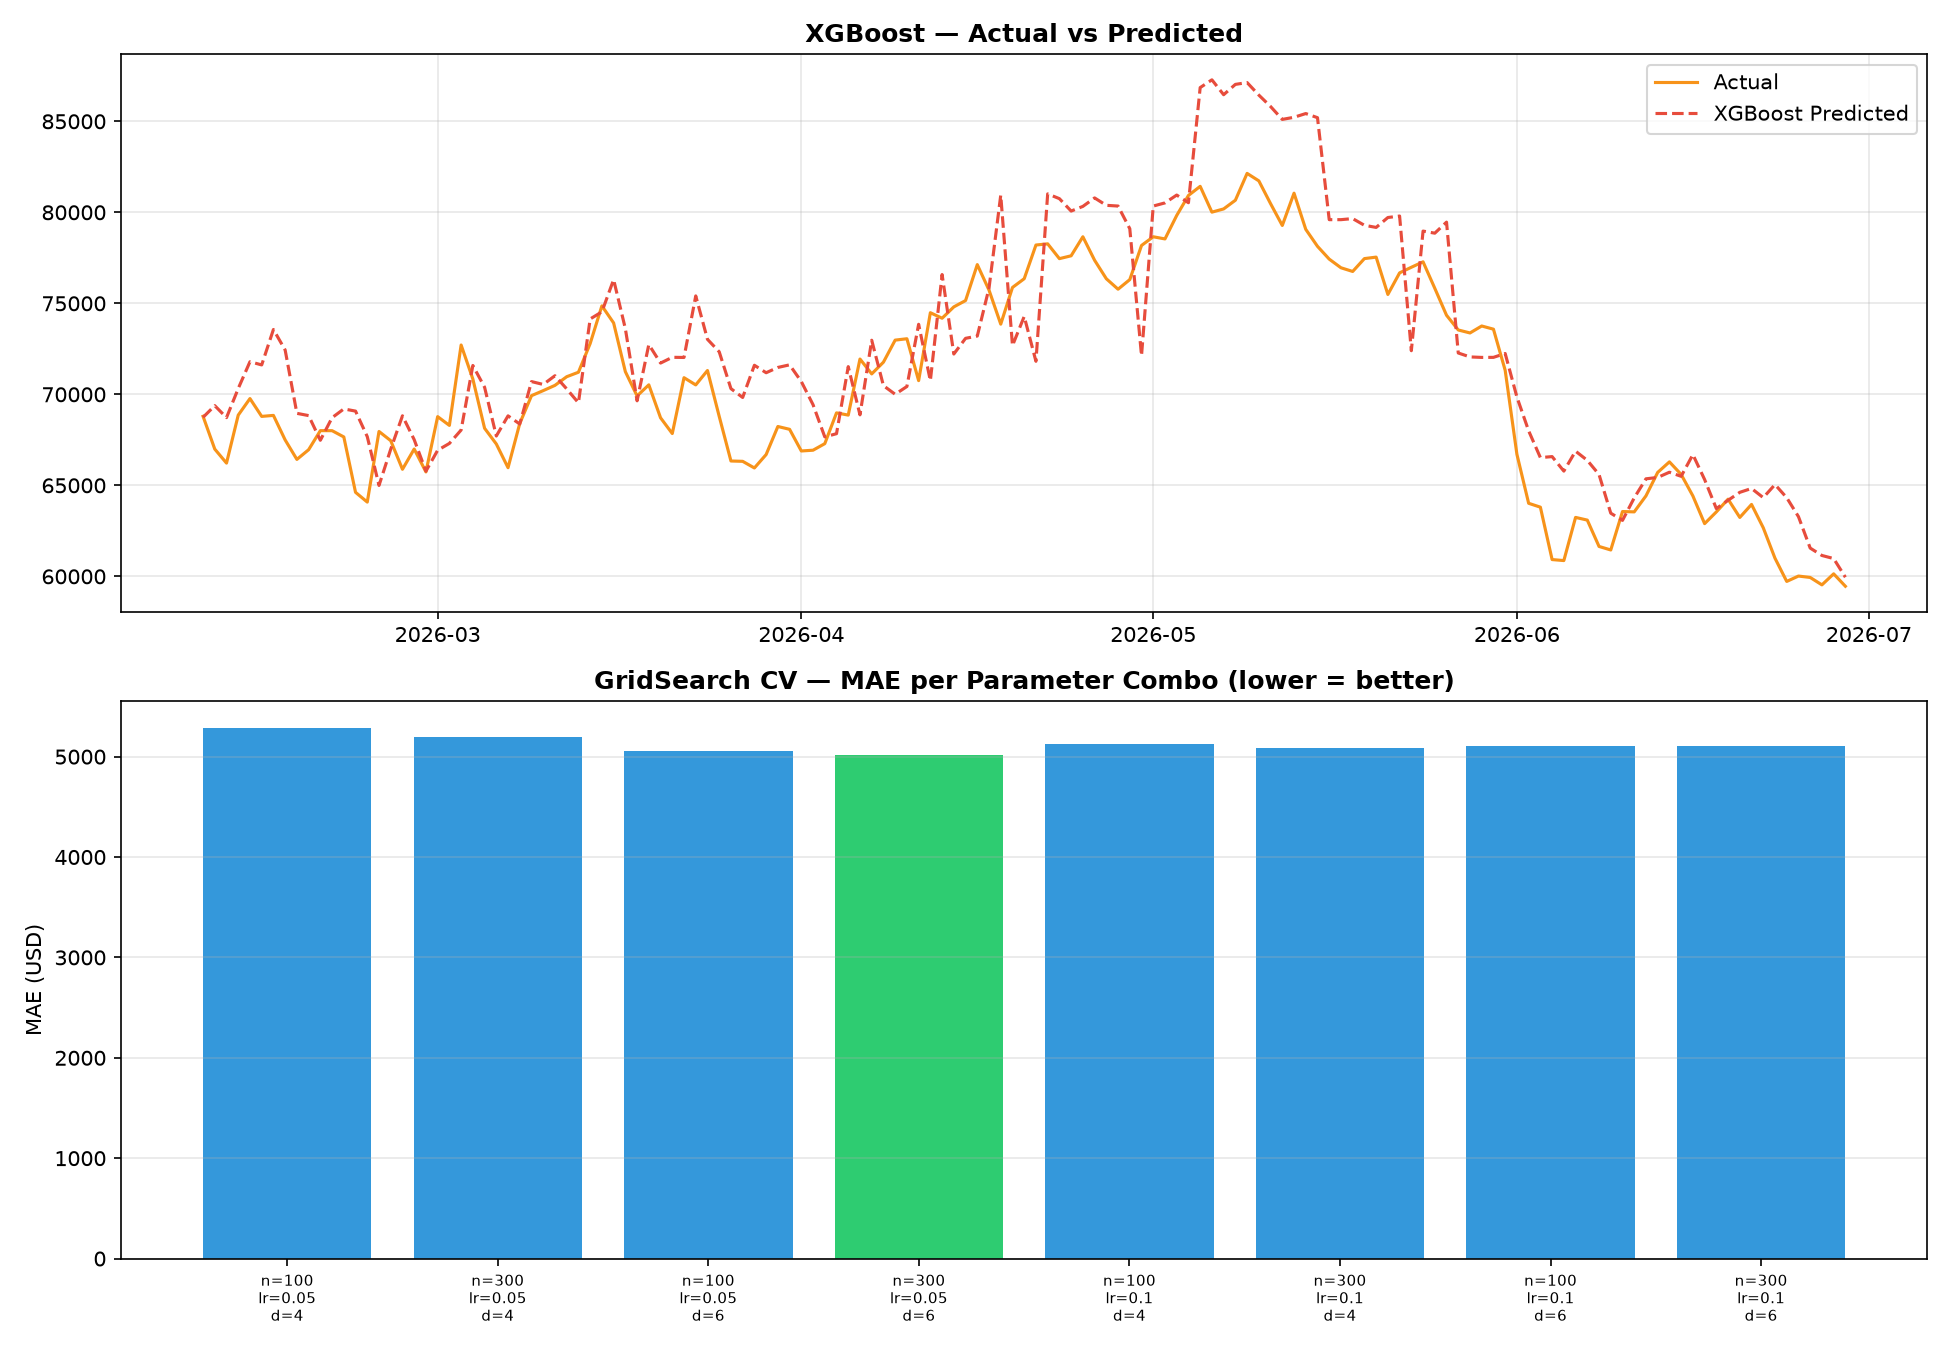
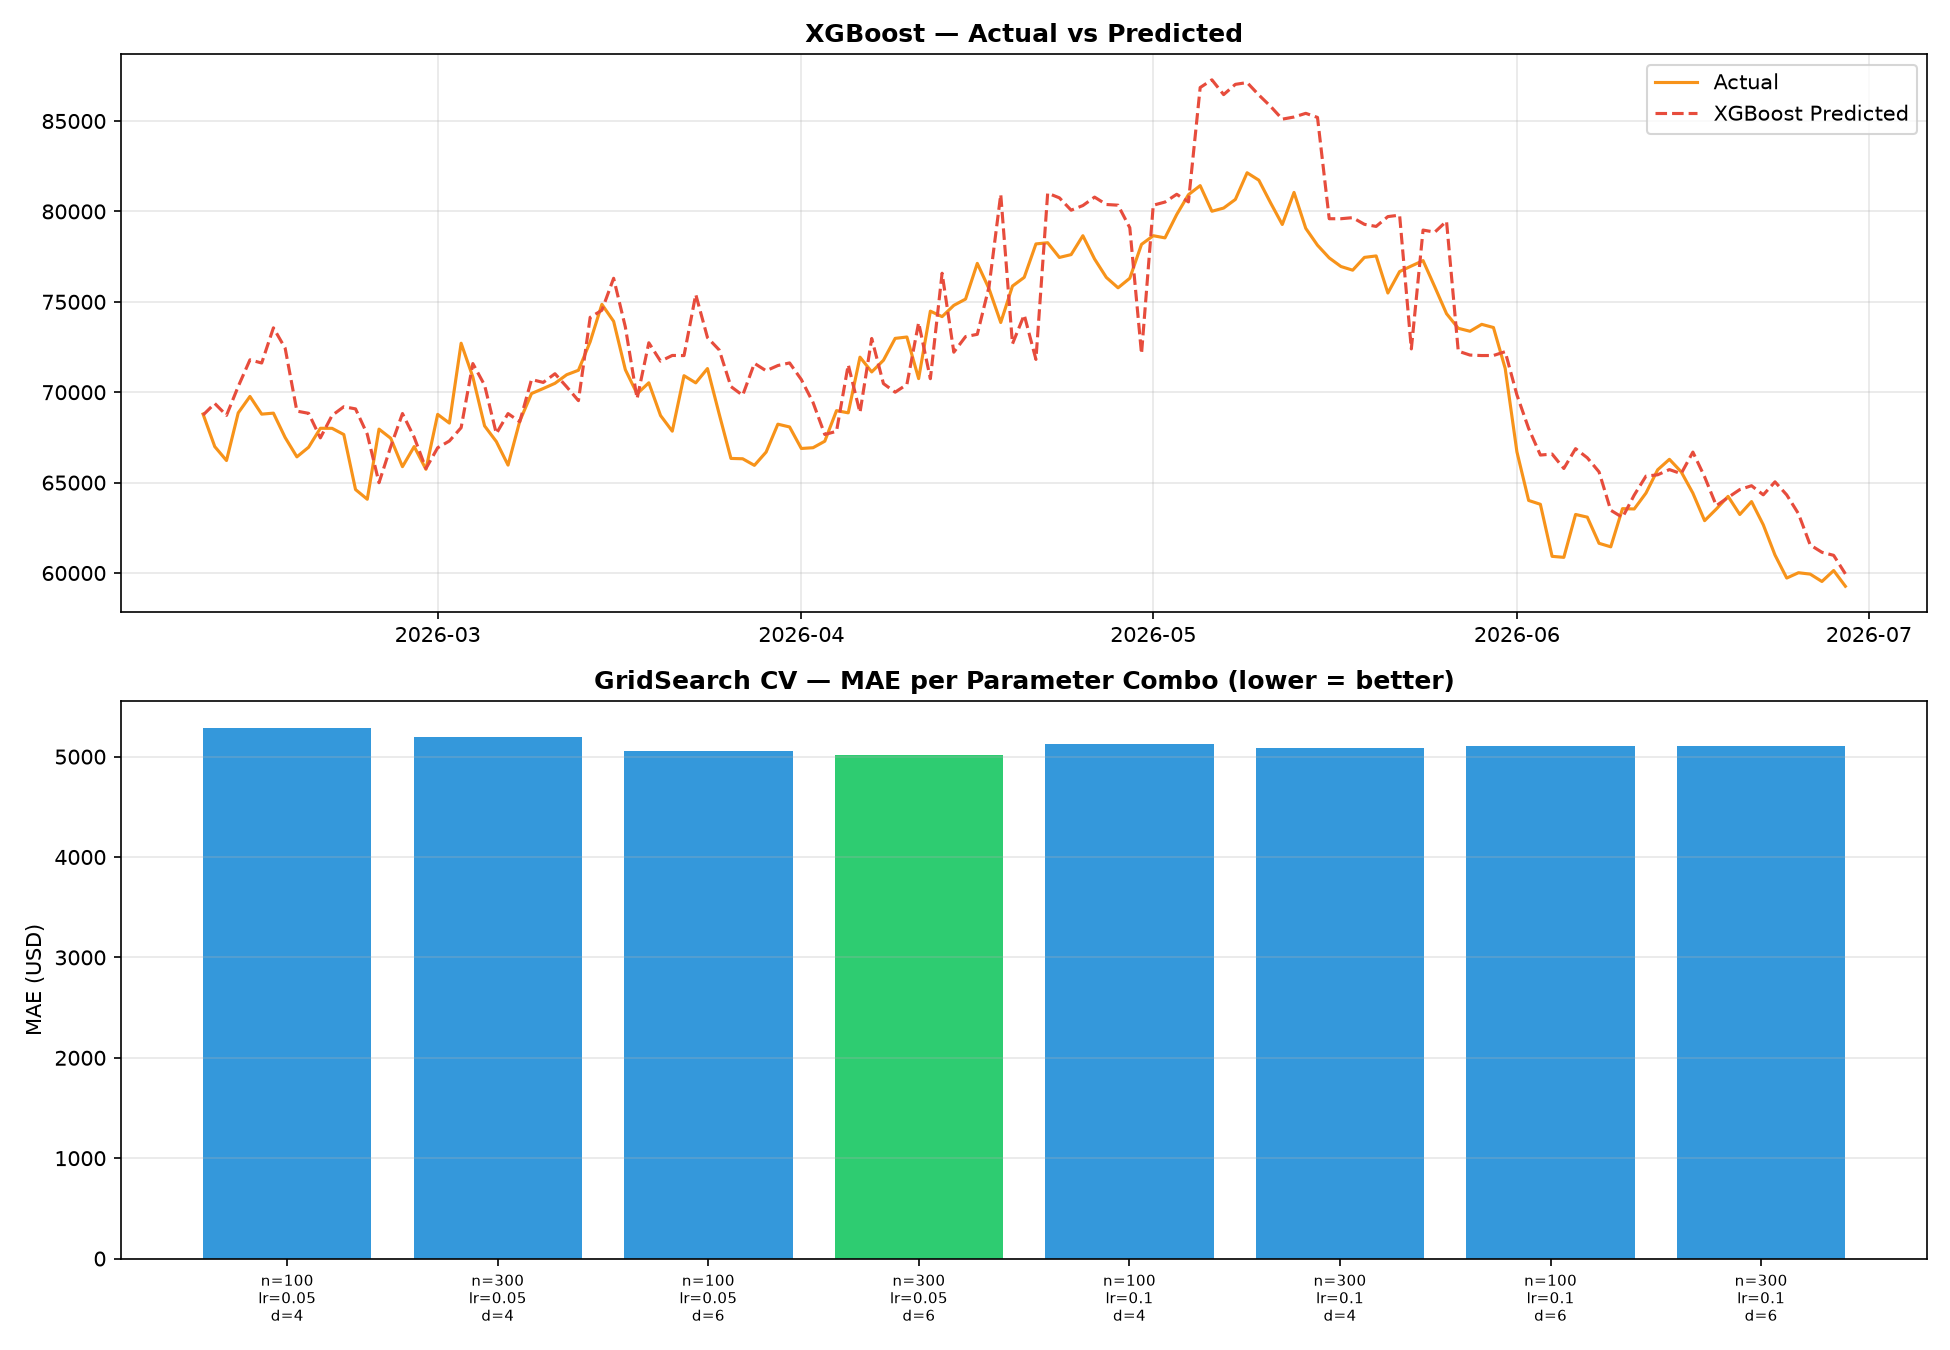
🚀 Day 11 — XGBoost model

diff --git a/reports/day11.md b/reports/day11.md
@@ -2,7 +2,7 @@
 
 **Task:** Day 11 — XGBoost + hyperparameter tuning
 **Script:** `daily_progress/week2/day11xgboost.py`
-**Date:** 2026-06-30 07:08 UTC
+**Date:** 2026-06-30 10:29 UTC
 
 ## Output
 
@@ -10,9 +10,9 @@
 🚀 Day 11 — XGBoost + Hyperparameter Tuning
 ==================================================
   Best params : {'learning_rate': 0.05, 'max_depth': 6, 'n_estimators': 300}
-  MAE         : $2,646.73
-  RMSE        : $3,181.72
-  R²          : 0.7109
+  MAE         : $2,648.06
+  RMSE        : $3,181.97
+  R²          : 0.7111
   📈 Chart saved → reports/day11chart.png
 
 ✅ XGBoost complete!